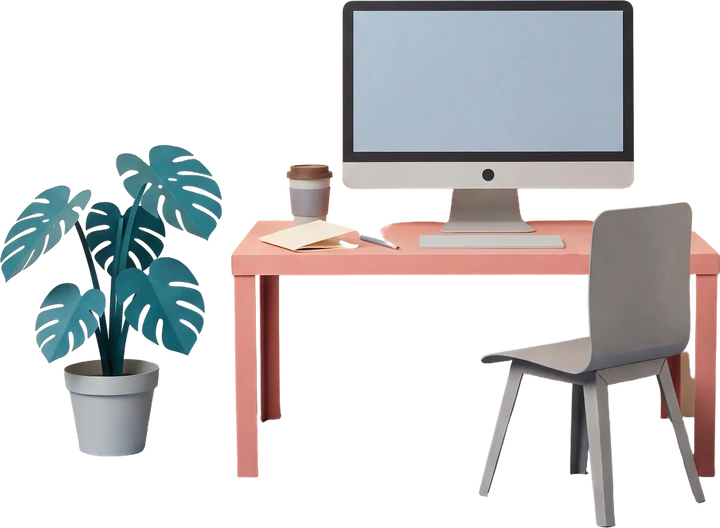
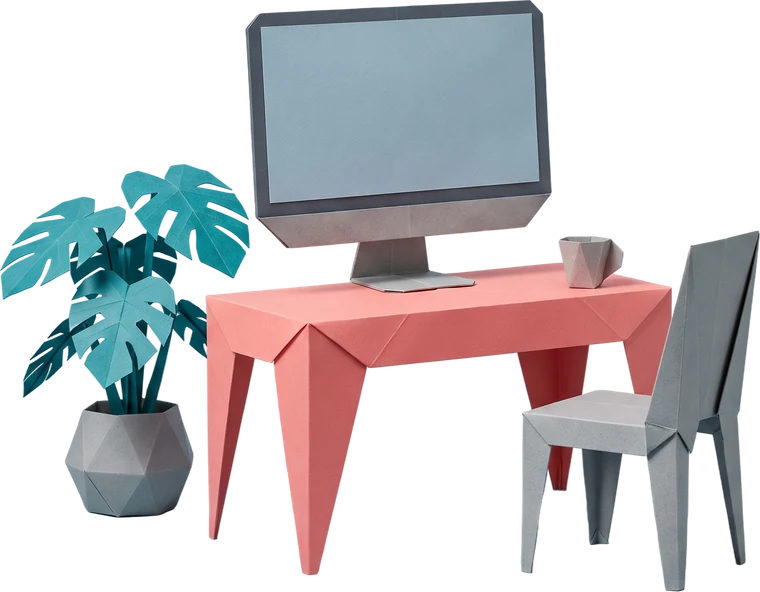
Fold the studio
The desk was a smooth 3D render sitting next to hand-folded paper animals — same
palette, wrong material. Regenerated against the leopard as the style reference
rather than the cityscape, which is itself softer: faceted legs, creased planes,
a pot that is a geometric solid.

diff --git a/index.html b/index.html
@@ -77,7 +77,7 @@
           <h2>I wasn't retrofitted for this.</h2>
         </div>
         <figure class="paper paper-studio reveal" data-parallax="0.05">
-          <img src="assets/studio.webp" alt="A paper-craft studio desk with a large computer, a plant and a chair." />
+          <img src="assets/studio.webp" alt="An origami studio: a folded coral desk with a large paper monitor, a faceted plant pot and a folded chair." />
           <figcaption>The same desk the argument gets made at. Figma on one side, the repo on the other, and no handoff in between.</figcaption>
         </figure>
       </div>